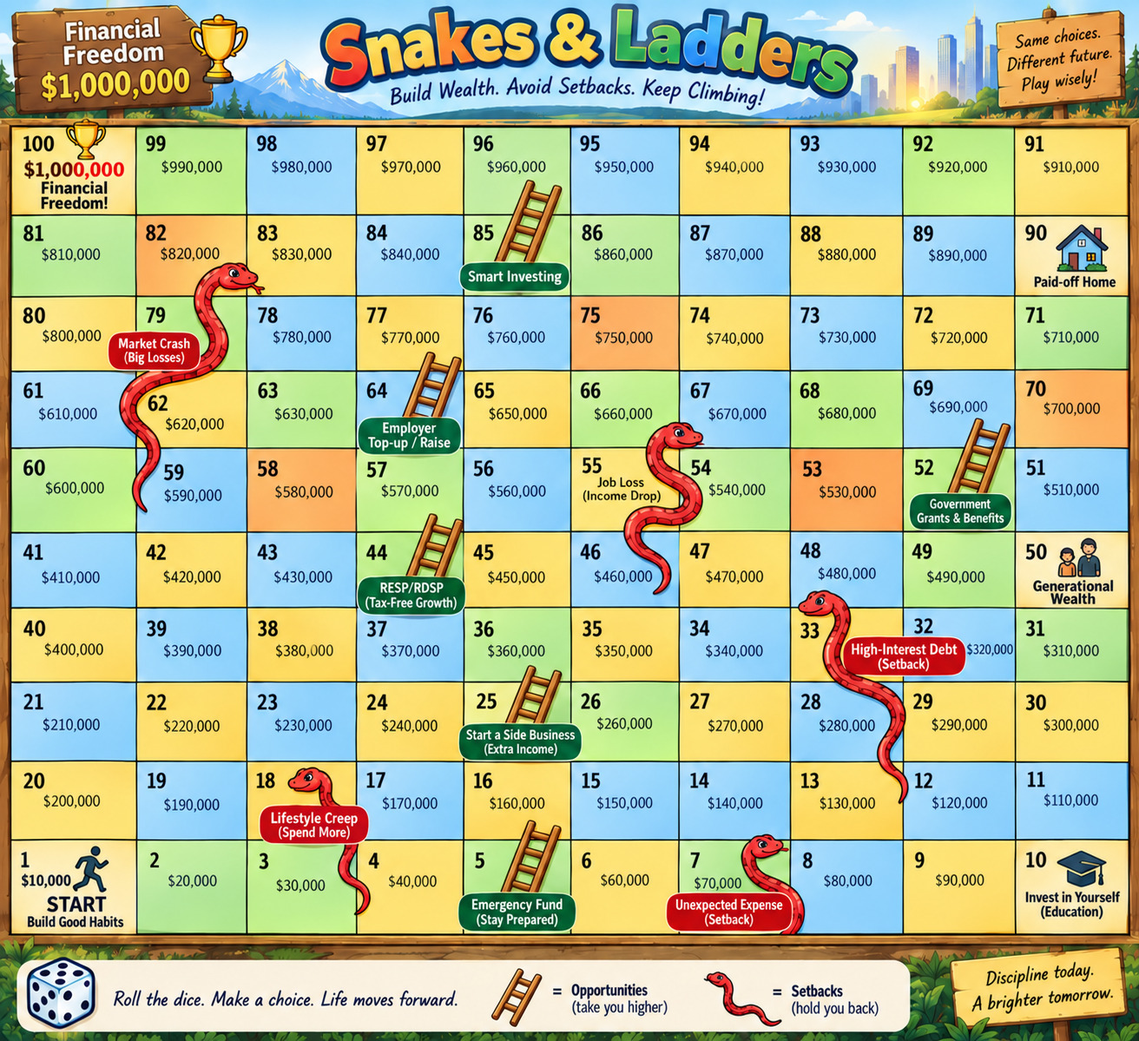
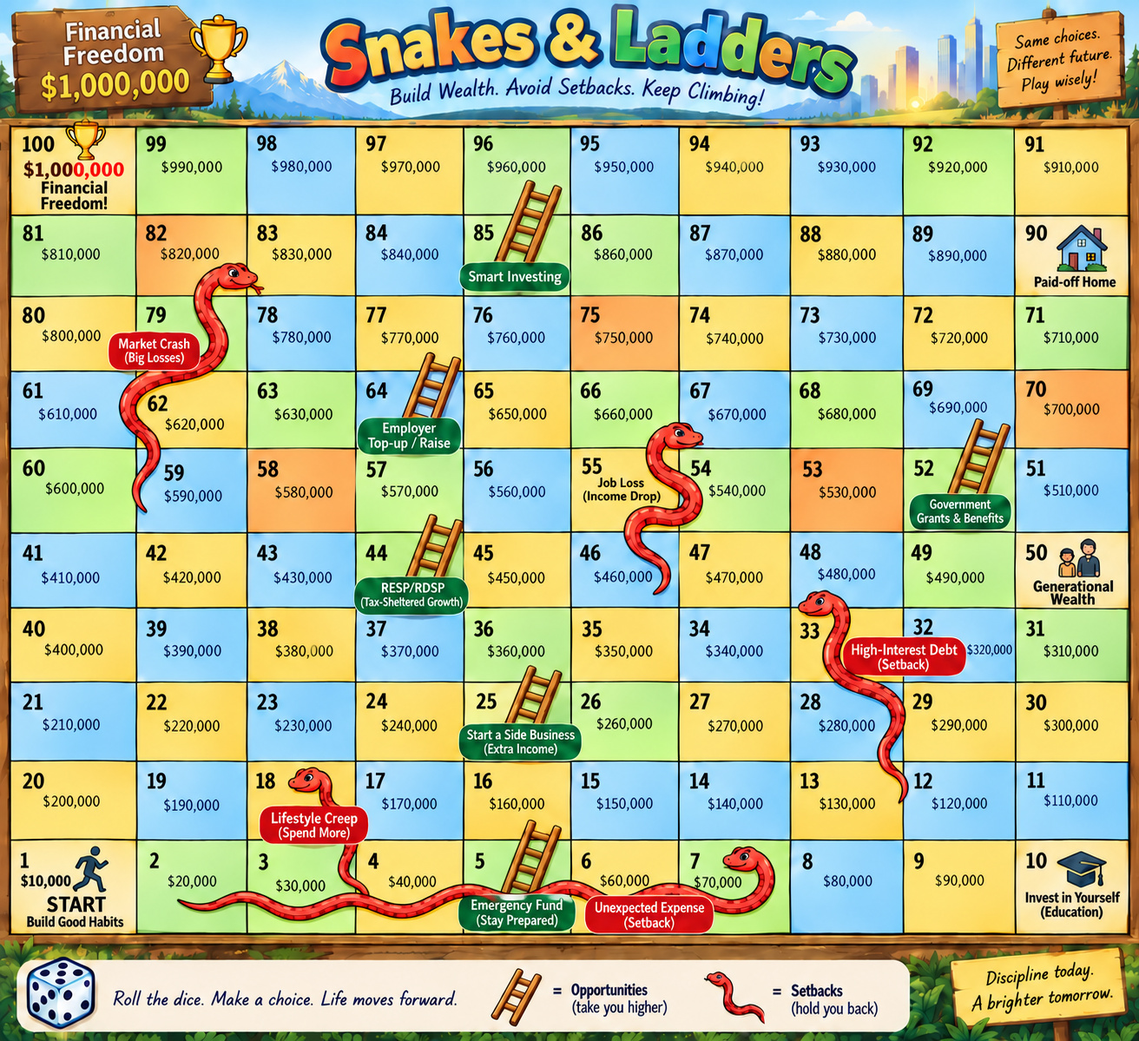
Align game artwork and chapter references with edited book

diff --git a/games/snakes-and-ladders.html b/games/snakes-and-ladders.html
@@ -1,3 +1,4 @@
 <!doctype html>
-<html lang="en"><head><script src="../assets/currency.js?v=20261102-consistency" defer></script><meta charset="utf-8"><meta name="viewport" content="width=device-width,initial-scale=1"><title>Snakes &amp; Ladders | Let’s Fix Money</title><link rel="stylesheet" href="../assets/site-notice.css?v=20261102-consistency"><link rel="stylesheet" href="assets/games.css?v=20261102-consistency"><link rel="stylesheet" href="../assets/site-shell.css?v=20261102-consistency"><link rel="stylesheet" href="../assets/experience.css?v=20261102-consistency"><script src="../assets/experience.js?v=20261102-consistency" defer></script></head><body data-currency-fixed="CAD"><aside class="site-notice" role="note" aria-label="Website status"><strong>Under construction · Simulation only</strong> Please explore with sample data only. Do not enter real financial information or rely on these tools and results for real financial decisions.</aside><header class="site-header"><div class="site-header-inner"><a class="site-brand" href="../index.html"><span class="site-mark" aria-hidden="true">L</span><span><strong>Let’s Fix Money</strong><small>Learn. Apply. Build your financial future.</small></span></a><button type="button" class="site-menu-toggle" aria-controls="site-navigation" aria-expanded="true">Menu</button><nav class="site-links" id="site-navigation" aria-label="Main navigation"><a href="../explore.html">Explore</a><a href="../course/index.html">Learn</a><a href="../tools.html">Tools &amp; activities</a><a href="../games.html">Games</a></nav></div></header><a class="skip" href="#play">Skip to game</a><main class="wrap"><header class="game-hero"><div><span class="eyebrow">GOOD HABITS HELP YOU CLIMB</span><h1>Snakes &amp; Ladders</h1><p>Build momentum. Watch for setbacks. Find your way to square 100.</p></div><div class="hero-symbol" aria-hidden="true">🎲</div></header><div class="howto"><strong>How to play</strong> Roll to move. Ladders lift you; snakes send you back. Reach 100 with an exact roll. The current print-edition 10 × 10 board is used. Square 100 represents $1,000,000. Landing on 7 sends you directly to 2. The route key below defines every snake and ladder, including artwork that crosses a grid line.</div><div class="board-layout"><section class="card board-card" id="play" aria-label="Game board"><div class="board-toolbar"><label>Board theme <select id="theme"><option value="book" selected>Current print-edition artwork</option><option value="vector">High-contrast interactive grid</option><option value="custom">Your own background</option></select></label><button class="button" id="restart">↻ Restart</button></div><div class="board-viewport"><div class="board-frame" id="board"><img class="board-art" id="art" alt="The book’s original 100-square Snakes and Ladders board, from $10,000 to $1,000,000" decoding="async" loading="lazy"><div class="board-grid" id="grid"></div><svg class="board-paths" id="paths" viewbox="0 0 1000 500" preserveaspectratio="none" aria-hidden="true"></svg><div class="board-token" id="token" aria-label="Your position">●</div><div class="calibration-layer" id="handles"></div></div></div><p class="board-explanation">The book artwork and its colours are preserved. The optional high-contrast grid shows labelled events. Follow the numbers in a zigzag, starting at the bottom left. On small screens, swipe across the board.</p><div class="howto"><strong>Fixed routes · start → finish</strong><p>Snakes: 7 → 2; 18 → 4; 48 → 13; 67 → 46; 82 → 59.</p><p>Ladders: 5 → 16; 25 → 36; 44 → 57; 52 → 69; 64 → 77; 85 → 96.</p></div><details class="board-settings"><summary>Change background &amp; align the grid</summary><div class="settings-grid"><label>Background image (PNG, JPG or WebP)<input id="upload" type="file" accept="image/png,image/jpeg,image/webp"></label><label><input id="align" type="checkbox"> Show grid and draggable alignment handles</label></div><p class="calibration-note">Use artwork with 10 columns and 10 rows, numbered like this board. Images keep their proportions. Drag the pink handles along the top and left to align each column and row with your artwork. A different board layout cannot use these event positions.</p><div class="actions"><button class="button" id="reset-grid">Reset alignment</button><button class="button" id="save-grid">Download alignment</button><label class="button">Load alignment <input id="load-grid" type="file" accept="application/json" aria-label="Load alignment JSON"></label></div><p id="setting-status" class="setting-status" role="status"></p></details></section><aside class="sidebar"><section class="card"><h2>Your next move</h2><div class="board-controls"><div class="die" id="die" aria-label="Die not rolled"></div><button class="button primary" id="roll">Roll the dice</button></div><p id="status" class="movement" role="status">You’re on square 1. Ready to begin?</p><progress class="board-progress" id="progress" max="100" value="1" aria-label="Board progress"></progress><div id="event" class="event-card"><strong>A fresh start</strong><p>Every roll is a chance to move forward.</p></div></section><section class="card"><h2>Climbs &amp; setbacks</h2><p>Climbs: Emergency fund · side business · RESP/RDSP · government grants · employer top-up · smart investing</p><p>Setbacks: Unexpected expense · lifestyle creep · high-interest debt · job loss · market crash</p><p class="book-note">Chance drives this game. Use the events to reflect on your habits, not to predict your finances.</p></section><section class="card"><h2>Recent rolls</h2><ol id="history" class="history"></ol></section></aside></div><footer class="footer">Educational simulation based on Let’s Fix Money. Amounts and outcomes illustrate the book’s lessons.</footer><details class="book-disclosure"><summary>Related book section</summary><p class="book-note book-reference">Print edition, pp. 20–21 · Chapter 1: Let Us Play a Game · “Snakes and Ladders with a Financial Theme”.</p></details></main><script src="assets/board-geometry.js?v=20261105-simple-rules"></script><script src="assets/snakes.js?v=20261105-simple-rules"></script><section class="site-next" aria-label="Continue your learning"><h2>Understand the climbs and setbacks</h2><p>Explore how chance and financial decisions shape a journey.</p><div class="site-next-links"><a href="../course/module-1.html">Chapter 1 · Learn the lesson →</a><a href="../course/module-5.html">Explore preservation →</a></div></section><footer class="site-footer"><div class="site-footer-inner"><strong>Let’s Fix Money. One step at a time.</strong><p>Interactive learning, practical experiments and thoughtful financial questions. No book or account required.</p><nav aria-label="Footer navigation"><a href="../book.html">The book</a><a href="../about.html">About Abdullah</a><a href="../workshops.html">Workshops</a><a href="../contact.html">Contact</a></nav><p><a href="mailto:abdullah@letsfixmoney.com">abdullah@letsfixmoney.com</a></p><p><a href="../contact.html#newsletter">Newsletter · Coming soon</a></p><p>Educational simulations. Check assumptions, current rules and your circumstances before making financial decisions.</p></div><p class="site-copyright">© 2026 Abdullah Mohiuddin. All rights reserved.<br><small>Third-party materials, trademarks and linked content belong to their respective owners.</small></p></footer></body></html>
+<html lang="en"><head><script src="../assets/currency.js?v=20261102-consistency" defer></script><meta charset="utf-8"><meta name="viewport" content="width=device-width,initial-scale=1"><title>Snakes &amp; Ladders | Let’s Fix Money</title><link rel="stylesheet" href="../assets/site-notice.css?v=20261102-consistency"><link rel="stylesheet" href="assets/games.css?v=20261102-consistency"><link rel="stylesheet" href="../assets/site-shell.css?v=20261102-consistency"><link rel="stylesheet" href="../assets/experience.css?v=20261102-consistency"><script src="../assets/experience.js?v=20261102-consistency" defer></script></head><body data-currency-fixed="CAD"><aside class="site-notice" role="note" aria-label="Website status"><strong>Under construction · Simulation only</strong> Please explore with sample data only. Do not enter real financial information or rely on these tools and results for real financial decisions.</aside><header class="site-header"><div class="site-header-inner"><a class="site-brand" href="../index.html"><span class="site-mark" aria-hidden="true">L</span><span><strong>Let’s Fix Money</strong><small>Learn. Apply. Build your financial future.</small></span></a><button type="button" class="site-menu-toggle" aria-controls="site-navigation" aria-expanded="true">Menu</button><nav class="site-links" id="site-navigation" aria-label="Main navigation"><a href="../explore.html">Explore</a><a href="../course/index.html">Learn</a><a href="../tools.html">Tools &amp; activities</a><a href="../games.html">Games</a></nav></div></header><a class="skip" href="#play">Skip to game</a><main class="wrap"><header class="game-hero"><div><span class="eyebrow">GOOD HABITS HELP YOU CLIMB</span><h1>Snakes &amp; Ladders</h1><p>Build momentum. Watch for setbacks. Find your way to square 100.</p></div><div class="hero-symbol" aria-hidden="true">🎲</div></header><div class="howto"><strong>How to play</strong> Roll to move. Ladders lift you; snakes send you back. Reach 100 with an exact roll. The current print-edition 10 × 10 board is used. Square 100 represents $1,000,000. Landing on 7 sends you directly to 2. The route key below defines every snake and ladder, including artwork that crosses a grid line.</div><div class="board-layout"><section class="card board-card" id="play" aria-label="Game board"><div class="board-toolbar"><label>Board theme <select id="theme"><option value="book" selected>Current print-edition artwork</option><option value="vector">High-contrast interactive grid</option><option value="custom">Your own background</option></select></label><button class="button" id="restart">↻ Restart</button></div><div class="board-viewport"><div class="board-frame" id="board"><img class="board-art" id="art" alt="The book’s current 100-square Snakes and Ladders board, from $10,000 to $1,000,000" decoding="async" loading="lazy"><div class="board-grid" id="grid"></div><svg class="board-paths" id="paths" viewbox="0 0 1000 500" preserveaspectratio="none" aria-hidden="true"></svg><div class="board-token" id="token" aria-label="Your position">●</div><div class="calibration-layer" id="handles"></div></div></div><p class="board-explanation">The book artwork and its colours are preserved. The optional high-contrast grid shows labelled events. Follow the numbers in a zigzag, starting at the bottom left. On small screens, swipe across the board.</p><div class="howto"><strong>Fixed routes · start → finish</strong><p>Snakes: 7 → 2; 18 → 4; 48 → 13; 67 → 46; 82 → 59.</p><p>Ladders: 5 → 16; 25 → 36; 44 → 57; 52 → 69; 64 → 77; 85 → 96.</p></div><details class="board-settings"><summary>Change background &amp; align the grid</summary><div class="settings-grid"><label>Background image (PNG, JPG or WebP)<input id="upload" type="file" accept="image/png,image/jpeg,image/webp"></label><label><input id="align" type="checkbox"> Show grid and draggable alignment handles</label></div><p class="calibration-note">Use artwork with 10 columns and 10 rows, numbered like this board. Images keep their proportions. Drag the pink handles along the top and left to align each column and row with your artwork. A different board layout cannot use these event positions.</p><div class="actions"><button class="button" id="reset-grid">Reset alignment</button><button class="button" id="save-grid">Download alignment</button><label class="button">Load alignment <input id="load-grid" type="file" accept="application/json" aria-label="Load alignment JSON"></label></div><p id="setting-status" class="setting-status" role="status"></p></details></section><aside class="sidebar"><section class="card"><h2>Your next move</h2><div class="board-controls"><div class="die" id="die" aria-label="Die not rolled"></div><button class="button primary" id="roll">Roll the dice</button></div><p id="status" class="movement" role="status">You’re on square 1. Ready to begin?</p><progress class="board-progress" id="progress" max="100" value="1" aria-label="Board progress"></progress><div id="event" class="event-card"><strong>A fresh start</strong><p>Every roll is a chance to move forward.</p></div></section><section class="card"><h2>Climbs &amp; setbacks</h2><p>Climbs: Emergency fund · side business · RESP/RDSP · government grants · employer top-up · smart investing</p><p>Setbacks: Unexpected expense · lifestyle creep · high-interest debt · job loss · market crash</p><p class="book-note">Chance drives this game. Use the events to reflect on your habits, not to predict your finances.</p></section><section class="card"><h2>Recent rolls</h2><ol id="history" class="history"></ol></section></aside></div><footer class="footer">Educational simulation based on Let’s Fix Money. Amounts and outcomes illustrate the book’s lessons.</footer><details class="book-disclosure"><summary>Related book section</summary><p class="book-note book-reference">Print edition, pp. 20–21 · Chapter 1: Let’s Play a Game · “Snakes and Ladders with a Financial Theme”.</p></details></main><script src="assets/board-geometry.js?v=20261105-simple-rules"></script><script src="assets/snakes.js?v=20261105-editorial"></script><section class="site-next" aria-label="Continue your learning"><h2>Understand the climbs and setbacks</h2><p>Explore how chance and financial decisions shape a journey.</p><div class="site-next-links"><a href="../course/module-1.html">Chapter 1 · Learn the lesson →</a><a href="../course/module-5.html">Explore preservation →</a></div></section><footer class="site-footer"><div class="site-footer-inner"><strong>Let’s Fix Money. One step at a time.</strong><p>Interactive learning, practical experiments and thoughtful financial questions. No book or account required.</p><nav aria-label="Footer navigation"><a href="../book.html">The book</a><a href="../about.html">About Abdullah</a><a href="../workshops.html">Workshops</a><a href="../contact.html">Contact</a></nav><p><a href="mailto:abdullah@letsfixmoney.com">abdullah@letsfixmoney.com</a></p><p><a href="../contact.html#newsletter">Newsletter · Coming soon</a></p><p>Educational simulations. Check assumptions, current rules and your circumstances before making financial decisions.</p></div><p class="site-copyright">© 2026 Abdullah Mohiuddin. All rights reserved.<br><small>Third-party materials, trademarks and linked content belong to their respective owners.</small></p></footer></body></html>
+
 

diff --git a/games/financial-life.html b/games/financial-life.html
@@ -1,10 +1,11 @@
 <!doctype html>
-<html lang="en"><head><script src="../assets/currency.js?v=20261102-consistency" defer></script><meta charset="utf-8"><meta name="viewport" content="width=device-width,initial-scale=1"><title>Financial Life | Let’s Fix Money</title><link rel="stylesheet" href="../assets/site-notice.css?v=20261102-consistency"><link rel="stylesheet" href="assets/games.css?v=20261102-consistency"><link rel="stylesheet" href="../assets/site-shell.css?v=20261102-consistency"><link rel="stylesheet" href="../assets/experience.css?v=20261102-consistency"><script src="../assets/experience.js?v=20261102-consistency" defer></script></head><body data-currency-fixed="CAD"><aside class="site-notice" role="note" aria-label="Website status"><strong>Under construction · Simulation only</strong> Please explore with sample data only. Do not enter real financial information or rely on these tools and results for real financial decisions.</aside><header class="site-header"><div class="site-header-inner"><a class="site-brand" href="../index.html"><span class="site-mark" aria-hidden="true">L</span><span><strong>Let’s Fix Money</strong><small>Learn. Apply. Build your financial future.</small></span></a><button type="button" class="site-menu-toggle" aria-controls="site-navigation" aria-expanded="true">Menu</button><nav class="site-links" id="site-navigation" aria-label="Main navigation"><a href="../explore.html">Explore</a><a href="../course/index.html">Learn</a><a href="../tools.html">Tools &amp; activities</a><a href="../games.html">Games</a></nav></div></header><a class="skip" href="#play">Skip to game</a><main class="wrap"><header class="game-hero"><div><span class="eyebrow">CHAPTER 1 · YOUR FINANCIAL JOURNEY</span><h1>Financial Life</h1><p>One lifetime. A handful of choices. Discover how small decisions compound.</p></div><div class="hero-symbol" aria-hidden="true"><svg viewbox="0 0 100 100" fill="none"><path d="M12 78 L38 52 L55 64 L86 24 M64 24 H86 V46" stroke="currentColor" stroke-width="8" stroke-linecap="round" stroke-linejoin="round"></path></svg></div></header><div class="howto"><strong>How to play</strong> Roll when prompted, choose a path, and follow your simulated life from age 18 to 65. The rules and amounts come from the book, print edition, pp. 16–19, Chapter 1: Let Us Play a Game.</div><div class="game-tools"><button class="button" id="restart">↻ Start again</button><a class="button" href="../course/module-1.html">Explore the lesson</a></div><div class="stats"><div class="stat"><span>Current age</span><strong id="age">18</strong></div><div class="stat"><span>Game score</span><strong id="total">$0</strong></div><div class="stat"><span>Journey progress</span><strong id="progress">1 / 9</strong></div></div><div class="timeline" id="timeline" aria-label="Life milestones"></div><div class="layout"><section class="card" id="play" aria-labelledby="stage-title"><section id="career-summary" class="howto" aria-label="Career outcome and savings" hidden></section><div id="stage"></div><p id="feedback" class="feedback" role="status"></p></section><aside class="sidebar"><section class="card"><h2>Your journey</h2><svg id="chart" class="mini-chart" viewbox="0 0 300 100" role="img" aria-label="Game score over the journey"></svg><p class="book-note">A simplified book game: the annual career budget has taxes and unlisted living costs already allowed for. Listed costs are deducted separately.</p></section><details class="card"><summary>Rules &amp; timing</summary><p class="book-note">Start at $0. At each age, make the choice and deduct any upfront cost, then apply annual amounts once. A negative score is a shortfall; keep playing. Cash car purchases and home down payments require a score that covers their full upfront amount. No interest is added to shortfalls.</p>
+<html lang="en"><head><script src="../assets/currency.js?v=20261102-consistency" defer></script><meta charset="utf-8"><meta name="viewport" content="width=device-width,initial-scale=1"><title>Financial Life | Let’s Fix Money</title><link rel="stylesheet" href="../assets/site-notice.css?v=20261102-consistency"><link rel="stylesheet" href="assets/games.css?v=20261102-consistency"><link rel="stylesheet" href="../assets/site-shell.css?v=20261102-consistency"><link rel="stylesheet" href="../assets/experience.css?v=20261102-consistency"><script src="../assets/experience.js?v=20261102-consistency" defer></script></head><body data-currency-fixed="CAD"><aside class="site-notice" role="note" aria-label="Website status"><strong>Under construction · Simulation only</strong> Please explore with sample data only. Do not enter real financial information or rely on these tools and results for real financial decisions.</aside><header class="site-header"><div class="site-header-inner"><a class="site-brand" href="../index.html"><span class="site-mark" aria-hidden="true">L</span><span><strong>Let’s Fix Money</strong><small>Learn. Apply. Build your financial future.</small></span></a><button type="button" class="site-menu-toggle" aria-controls="site-navigation" aria-expanded="true">Menu</button><nav class="site-links" id="site-navigation" aria-label="Main navigation"><a href="../explore.html">Explore</a><a href="../course/index.html">Learn</a><a href="../tools.html">Tools &amp; activities</a><a href="../games.html">Games</a></nav></div></header><a class="skip" href="#play">Skip to game</a><main class="wrap"><header class="game-hero"><div><span class="eyebrow">CHAPTER 1 · YOUR FINANCIAL JOURNEY</span><h1>Financial Life</h1><p>One lifetime. A handful of choices. Discover how small decisions compound.</p></div><div class="hero-symbol" aria-hidden="true"><svg viewbox="0 0 100 100" fill="none"><path d="M12 78 L38 52 L55 64 L86 24 M64 24 H86 V46" stroke="currentColor" stroke-width="8" stroke-linecap="round" stroke-linejoin="round"></path></svg></div></header><div class="howto"><strong>How to play</strong> Roll when prompted, choose a path, and follow your simulated life from age 18 to 65. Record the final score shown at age 65. The rules and amounts come from the book, print edition, pp. 16–19, Chapter 1: Let’s Play a Game.</div><div class="game-tools"><button class="button" id="restart">↻ Start again</button><a class="button" href="../course/module-1.html">Explore the lesson</a></div><div class="stats"><div class="stat"><span>Current age</span><strong id="age">18</strong></div><div class="stat"><span>Game score</span><strong id="total">$0</strong></div><div class="stat"><span>Journey progress</span><strong id="progress">1 / 9</strong></div></div><div class="timeline" id="timeline" aria-label="Life milestones"></div><div class="layout"><section class="card" id="play" aria-labelledby="stage-title"><section id="career-summary" class="howto" aria-label="Career outcome and savings" hidden></section><div id="stage"></div><p id="feedback" class="feedback" role="status"></p></section><aside class="sidebar"><section class="card"><h2>Your journey</h2><svg id="chart" class="mini-chart" viewbox="0 0 300 100" role="img" aria-label="Game score over the journey"></svg><p class="book-note">A simplified book game: the annual career budget has taxes and unlisted living costs already allowed for. Listed costs are deducted separately.</p></section><details class="card"><summary>Rules &amp; timing</summary><p class="book-note">Start at $0. At each age, make the choice and deduct any upfront cost, then apply annual amounts once. A negative score is a shortfall; keep playing. Cash car purchases and home down payments require a score that covers their full upfront amount. No interest is added to shortfalls.</p>
 <p class="book-note">College funding outcomes 1, 2, 3 and 6 cover costs. Outcome 4 costs $10,000 or $20,000 annually at ages 18–21; outcome 5 costs $5,000 annually. College has no score change at 22. Trades save $10,000 annually at 18–22; work saves $5,000.</p>
 <p class="book-note">At 23, roll for an annual budget of $44,000, $34,000, $29,000, $24,000, $19,000 or $14,000. Add $5,000 for college or $2,500 for trades to that annual amount. Apply it at ages 23–65. These are fictional amounts after taxes and unlisted living costs, before housing and other listed costs. Subtract $24,000 for housing annually at ages 23–36; use your selected housing costs from 37. Training additions illustrate a possible later benefit, not actual career returns.</p>
 <p class="book-note">Transport runs at ages 24–65. Each car has a $4,000 annual running/replacement allowance plus its purchase cost: used $10,000 upfront; new $40,000 upfront; or financed $8,000 annually at 24–30. Transit is $1,500 annually. Relationship spending starts at 27 and continues from 30 only if you marry. Weddings cost $10,000 or $40,000 once.</p>
 <p class="book-note">Each child is born at your age 32. Living costs are $8,000 annually at 32–49. An RESP costs $2,500 per child annually at 33–46, then $1,000 at 47, and stops. The $36,000 contribution total plus $7,200 basic CESG covers the $43,200 education budget at your age 50, with no extra deduction then. Without an RESP, deduct $43,200 per child once at 50. The game assumes full basic CESG eligibility and no prior contributions, additional benefits or investment returns. Lifetime contributions across all RESPs cannot exceed $50,000 per child; government grants and bonds are excluded from that cap.</p>
 <p class="book-note">At 37, the fictional home price is $450,000. Pay 5% ($22,500), 10% ($45,000), 15% ($67,500) or 20% ($90,000) upfront if affordable. Annual mortgage payments at 37–61 are $30,000, $28,000, $26,000 or $23,000 respectively. Add $450,000 home value once at 62. Rent costs $24,000 annually at 37–65. The score includes no separate mortgage balance or extra RESP asset value.</p>
-<p class="book-note">For a learning comparison, use the same dice, marriage choice and child count. Compare money decisions within those family goals. See the <a href="https://www.canada.ca/en/revenue-agency/services/tax/individuals/topics/registered-education-savings-plans-resps/resp-contributions.html">CRA contribution rules</a> and <a href="https://www.canada.ca/en/services/benefits/education/education-savings/estimating-amounts.html">CESG explanation</a> for real-world rules.</p></details><section class="card"><h2>Decision breakdown</h2><div class="ledger" id="ledger"><p>Your first decision starts the story.</p></div></section></aside></div><footer class="footer">Educational simulation based on Let’s Fix Money. Amounts and outcomes illustrate the book’s lessons.</footer><details class="book-disclosure"><summary>Related book section</summary><p class="book-note book-reference">Print edition, pp. 16–19 · Chapter 1: Let Us Play a Game · “When You Turn 18” through “At 37 You Decide”; continue through age 65.</p></details></main><script src="assets/life-engine.js?v=20261105-simple-rules"></script><script src="assets/life.js?v=20261105-simple-rules"></script><section class="site-next" aria-label="Continue your learning"><h2>Reflect on the choices you made</h2><p>Return to the first lesson to connect this simulated lifetime with the book’s ideas.</p><div class="site-next-links"><a href="../course/module-1.html">Chapter 1 · Financial Life →</a><a href="../activities/money-spiral.html">Next · Money Spiral →</a></div></section><footer class="site-footer"><div class="site-footer-inner"><strong>Let’s Fix Money. One step at a time.</strong><p>Interactive learning, practical experiments and thoughtful financial questions. No book or account required.</p><nav aria-label="Footer navigation"><a href="../book.html">The book</a><a href="../about.html">About Abdullah</a><a href="../workshops.html">Workshops</a><a href="../contact.html">Contact</a></nav><p><a href="mailto:abdullah@letsfixmoney.com">abdullah@letsfixmoney.com</a></p><p><a href="../contact.html#newsletter">Newsletter · Coming soon</a></p><p>Educational simulations. Check assumptions, current rules and your circumstances before making financial decisions.</p></div><p class="site-copyright">© 2026 Abdullah Mohiuddin. All rights reserved.<br><small>Third-party materials, trademarks and linked content belong to their respective owners.</small></p></footer></body></html>
+<p class="book-note">For a learning comparison, use the same dice, marriage choice and child count. Compare money decisions within those family goals. See the <a href="https://www.canada.ca/en/revenue-agency/services/tax/individuals/topics/registered-education-savings-plans-resps/resp-contributions.html">CRA contribution rules</a> and <a href="https://www.canada.ca/en/services/benefits/education/education-savings/estimating-amounts.html">CESG explanation</a> for real-world rules.</p></details><section class="card"><h2>Decision breakdown</h2><div class="ledger" id="ledger"><p>Your first decision starts the story.</p></div></section></aside></div><footer class="footer">Educational simulation based on Let’s Fix Money. Amounts and outcomes illustrate the book’s lessons.</footer><details class="book-disclosure"><summary>Related book section</summary><p class="book-note book-reference">Print edition, pp. 16–19 · Chapter 1: Let’s Play a Game · “When You Turn 18” through “At 37 You Decide”; continue through age 65.</p></details></main><script src="assets/life-engine.js?v=20261105-simple-rules"></script><script src="assets/life.js?v=20261105-simple-rules"></script><section class="site-next" aria-label="Continue your learning"><h2>Reflect on the choices you made</h2><p>Return to the first lesson to connect this simulated lifetime with the book’s ideas.</p><div class="site-next-links"><a href="../course/module-1.html">Chapter 1 · Financial Life →</a><a href="../activities/money-spiral.html">Next · Money Spiral →</a></div></section><footer class="site-footer"><div class="site-footer-inner"><strong>Let’s Fix Money. One step at a time.</strong><p>Interactive learning, practical experiments and thoughtful financial questions. No book or account required.</p><nav aria-label="Footer navigation"><a href="../book.html">The book</a><a href="../about.html">About Abdullah</a><a href="../workshops.html">Workshops</a><a href="../contact.html">Contact</a></nav><p><a href="mailto:abdullah@letsfixmoney.com">abdullah@letsfixmoney.com</a></p><p><a href="../contact.html#newsletter">Newsletter · Coming soon</a></p><p>Educational simulations. Check assumptions, current rules and your circumstances before making financial decisions.</p></div><p class="site-copyright">© 2026 Abdullah Mohiuddin. All rights reserved.<br><small>Third-party materials, trademarks and linked content belong to their respective owners.</small></p></footer></body></html>
+
 
 

diff --git a/games/assets/snakes.js b/games/assets/snakes.js
@@ -25,7 +25,7 @@ function handles(){const h=$('handles');h.innerHTML='';if(!$('align').checked)re
 function adjust(axis,i,value){const a=geometry[axis];a[i]=Math.max(i?a[i-1]+.2:0,Math.min(i<a.length-1?a[i+1]-.2:100,value));draw();}
 let drag=null;$('handles').addEventListener('pointerdown',e=>{const b=e.target.closest('button');if(!b)return;e.preventDefault();drag={axis:b.dataset.axis,i:Number(b.dataset.index)};$('board').setPointerCapture(e.pointerId);});$('board').addEventListener('pointermove',e=>{if(!drag)return;const r=$('board').getBoundingClientRect();adjust(drag.axis,drag.i,drag.axis==='x'?(e.clientX-r.left)/r.width*100:(e.clientY-r.top)/r.height*100);});for(const event of ['pointerup','pointercancel','lostpointercapture'])$('board').addEventListener(event,()=>drag=null);
 $('handles').addEventListener('keydown',e=>{const b=e.target.closest('button');if(!b||!['ArrowLeft','ArrowRight','ArrowUp','ArrowDown'].includes(e.key))return;e.preventDefault();const axis=b.dataset.axis,i=Number(b.dataset.index);adjust(axis,i,geometry[axis][i]+(['ArrowRight','ArrowDown'].includes(e.key)?1:-1)*(e.shiftKey?1:.2));$('handles').querySelector(`[data-axis="${axis}"][data-index="${i}"]`).focus();});
-function theme(){const t=$('theme').value;if(t==='custom'&&!hasCustom){$('setting-status').textContent='Choose an image below to use your own background.';$('theme').value='vector';}const selected=$('theme').value;$('board').classList.toggle('vector',selected==='vector');$('art').hidden=selected==='vector';if(selected==='vector'){$('board').style.aspectRatio='1 / 1';}else{$('art').src=selected==='book'?'board-book.jpg?v=20261027-book-sync':url;}geometry=defaults();draw();}
+function theme(){const t=$('theme').value;if(t==='custom'&&!hasCustom){$('setting-status').textContent='Choose an image below to use your own background.';$('theme').value='vector';}const selected=$('theme').value;$('board').classList.toggle('vector',selected==='vector');$('art').hidden=selected==='vector';if(selected==='vector'){$('board').style.aspectRatio='1 / 1';}else{$('art').src=selected==='book'?'board-book.jpg?v=20261105-editorial':url;}geometry=defaults();draw();}
 $('art').addEventListener('load',()=>{$('board').style.aspectRatio=`${$('art').naturalWidth} / ${$('art').naturalHeight}`;});$('art').addEventListener('error',()=>{$('setting-status').textContent='That image could not be read. Try another PNG, JPG or WebP.';$('theme').value='vector';theme();});$('theme').addEventListener('change',theme);
 $('upload').addEventListener('change',()=>{const f=$('upload').files[0];if(!f)return;if(!['image/png','image/jpeg','image/webp'].includes(f.type)||f.size>8*1024*1024){$('setting-status').textContent='Choose a PNG, JPG or WebP smaller than 8 MB.';return;}if(url)URL.revokeObjectURL(url);url=URL.createObjectURL(f);hasCustom=true;$('theme').value='custom';theme();$('align').checked=true;$('board').classList.add('show-grid');handles();$('setting-status').textContent='Image stays in this browser. Drag the handles to fit the printed grid.';});
 $('align').addEventListener('change',()=>{$('board').classList.toggle('show-grid',$('align').checked);handles();});$('reset-grid').addEventListener('click',()=>{geometry=defaults();draw();$('setting-status').textContent='Alignment reset for this theme.';});
@@ -39,5 +39,6 @@ $('roll').addEventListener('click',async()=>{if(busy||position===100)return;busy
  if(position===100){note+=' You reached 100!';$('event').className='event-card win';$('event').innerHTML='<strong>🏁 You made it!</strong><p>Reflect on the climbs and setbacks. Restart to play again.</p><p>Your result reflects this game’s simplified rules and assumptions. It is not a forecast of your income, investment returns, property value or future net worth. Use it to discuss choices and trade-offs rather than to select a real financial strategy.</p>';}
  $('status').textContent=note;const li=document.createElement('li');li.textContent=note;$('history').prepend(li);while($('history').children.length>8)$('history').lastChild.remove();busy=false;$('roll').disabled=position===100;});
 $('restart').addEventListener('click',()=>{epoch++;busy=false;position=1;dice(1);$('die').classList.remove('rolling');$('roll').disabled=false;$('history').innerHTML='';$('status').textContent='You’re on square 1. Ready to begin?';$('event').className='event-card';$('event').innerHTML='<strong>A fresh start</strong><p>Every roll is a chance to move forward.</p>';moveToken();});dice(1);theme();
+
 
 
